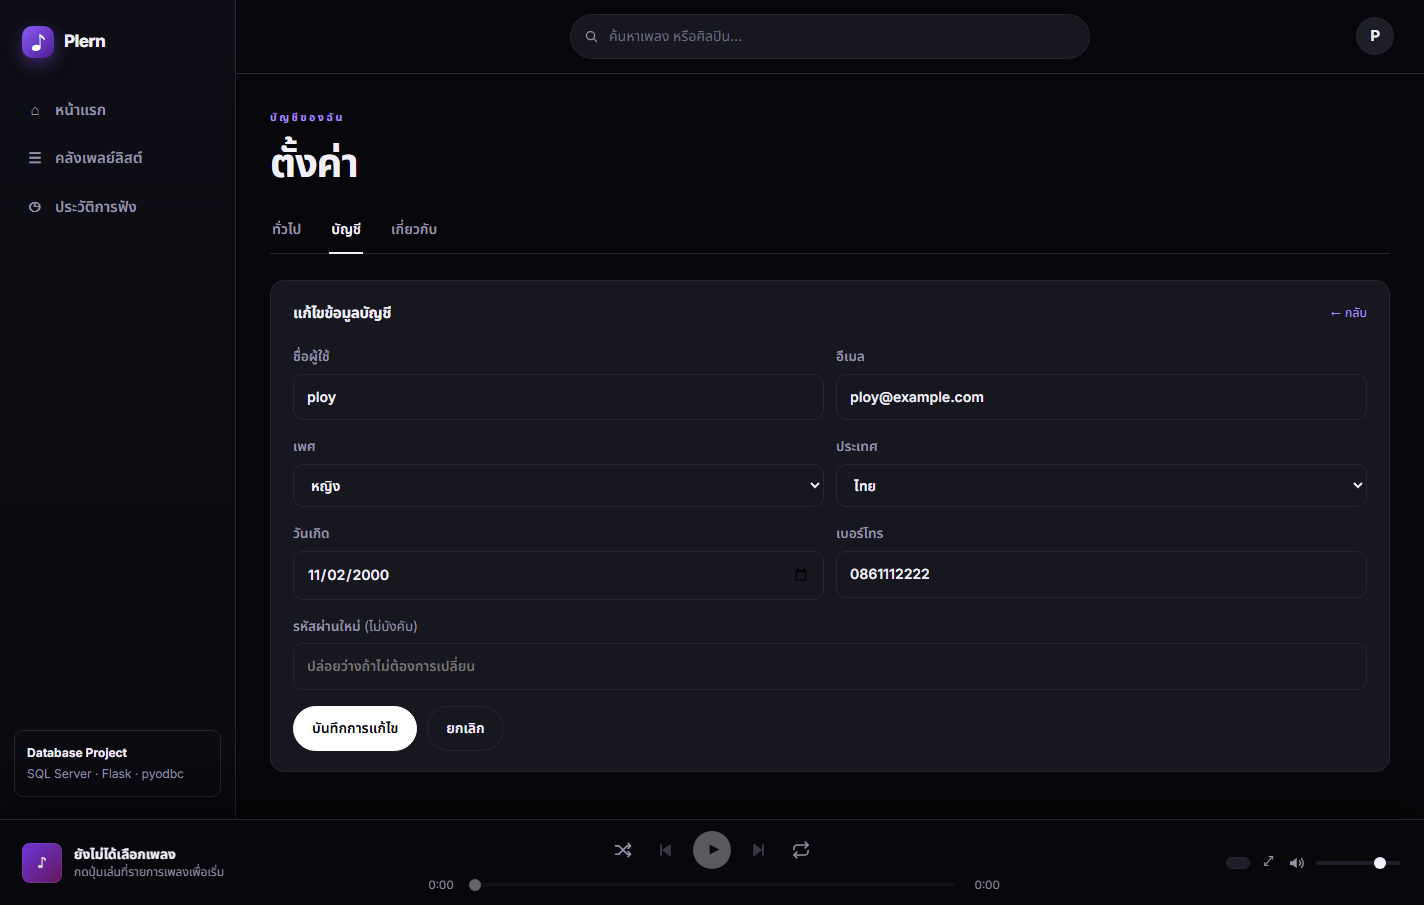
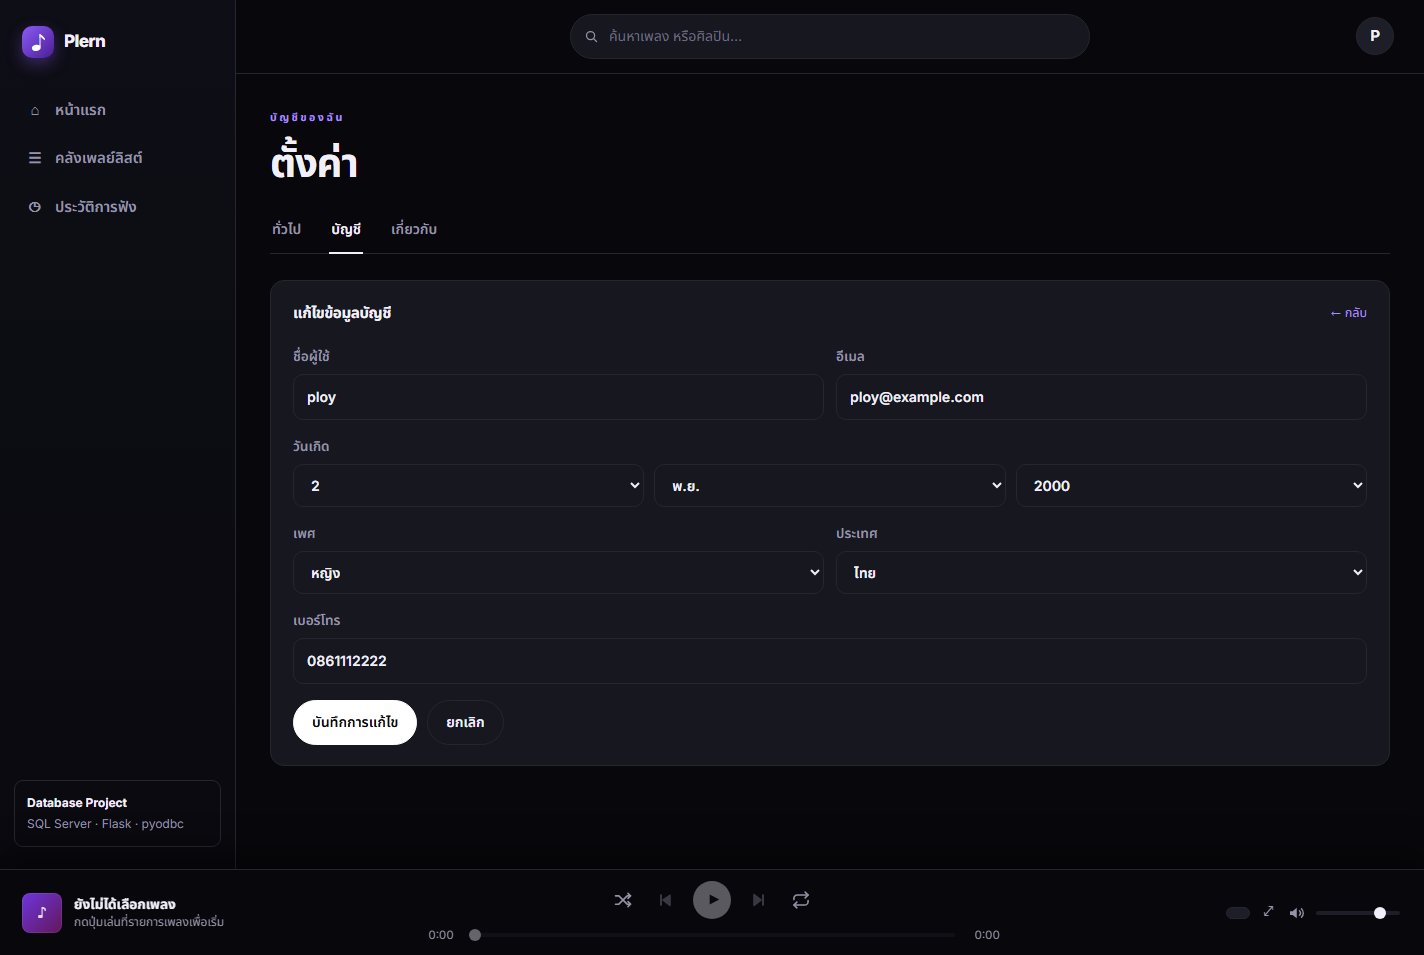
feat(account): split date of birth into day/month/year, move password to its own card

diff --git a/app/templates/settings_edit.html b/app/templates/settings_edit.html
@@ -20,6 +20,30 @@
       </label>
     </div>
 
+    <div class="field">
+      <span>{{ t('field.dob') }}</span>
+      <div class="dob-row">
+        <select name="day" aria-label="{{ t('field.day') }}" required>
+          <option value="" disabled {{ 'selected' if not form.get('day') }}>{{ t('field.day') }}</option>
+          {% for d in days %}
+            <option value="{{ d }}" {{ 'selected' if form.get('day') == d|string }}>{{ d }}</option>
+          {% endfor %}
+        </select>
+        <select name="month" aria-label="{{ t('field.month') }}" required>
+          <option value="" disabled {{ 'selected' if not form.get('month') }}>{{ t('field.month') }}</option>
+          {% for value, label in months %}
+            <option value="{{ value }}" {{ 'selected' if form.get('month') == value|string }}>{{ label }}</option>
+          {% endfor %}
+        </select>
+        <select name="year" aria-label="{{ t('field.year') }}" required>
+          <option value="" disabled {{ 'selected' if not form.get('year') }}>{{ t('field.year') }}</option>
+          {% for y in years %}
+            <option value="{{ y }}" {{ 'selected' if form.get('year') == y|string }}>{{ y }}</option>
+          {% endfor %}
+        </select>
+      </div>
+    </div>
+
     <div class="field-row">
       <label class="field">
         <span>{{ t('field.gender') }}</span>
@@ -39,21 +63,9 @@
       </label>
     </div>
 
-    <div class="field-row">
-      <label class="field">
-        <span>{{ t('field.dob') }}</span>
-        <input type="date" name="date_of_birth" value="{{ form.get('date_of_birth', '') }}">
-      </label>
-      <label class="field">
-        <span>{{ t('field.tel') }}</span>
-        <input type="tel" name="tel" value="{{ form.get('tel', '') }}" maxlength="20">
-      </label>
-    </div>
-
     <label class="field">
-      <span>{{ t('field.new_password') }} <em>{{ t('edit.optional') }}</em></span>
-      <input type="password" name="password" minlength="8" autocomplete="new-password"
-             placeholder="{{ t('edit.password_hint') }}">
+      <span>{{ t('field.tel') }}</span>
+      <input type="tel" name="tel" value="{{ form.get('tel', '') }}" maxlength="20">
     </label>
 
     <div class="row-actions">

diff --git a/app/templates/settings_account.html b/app/templates/settings_account.html
@@ -17,6 +17,33 @@
 </section>
 
 <section class="settings-card">
+  <h2>{{ t('password.title') }}</h2>
+  <form method="post" action="{{ url_for('main.change_password') }}" class="form password-form">
+    <div class="field-row">
+      <label class="field">
+        <span>{{ t('password.current') }}</span>
+        <input type="password" name="current" required autocomplete="current-password">
+      </label>
+      <label class="field">
+        <span>{{ t('password.new') }}</span>
+        <input type="password" name="new" required minlength="8" autocomplete="new-password"
+               placeholder="{{ t('password.hint') }}">
+      </label>
+    </div>
+    <div class="field-row">
+      <label class="field">
+        <span>{{ t('password.confirm') }}</span>
+        <input type="password" name="confirm" required minlength="8" autocomplete="new-password">
+      </label>
+      <div class="field field-submit">
+        <span>&nbsp;</span>
+        <button class="btn btn-light" type="submit">{{ t('password.submit') }}</button>
+      </div>
+    </div>
+  </form>
+</section>
+
+<section class="settings-card">
   <h2>{{ t('settings.session') }}</h2>
   <div class="row-actions">
     <a class="btn btn-ghost" href="{{ url_for('main.history') }}">{{ t('settings.view_history') }}</a>

diff --git a/app/static/css/style.css b/app/static/css/style.css
@@ -1936,3 +1936,12 @@ kbd {
 .edit-form { display: flex; flex-direction: column; gap: 16px; }
 .edit-form .field input,
 .edit-form .field select { width: 100%; }
+
+/* Password card: keep the submit button aligned with the inputs */
+.password-form { margin-top: 4px; }
+.field-submit { justify-content: flex-end; }
+.field-submit .btn { width: 100%; }
+
+@media (max-width: 620px) {
+  .field-submit .btn { width: 100%; }
+}

diff --git a/app/routes.py b/app/routes.py
@@ -693,8 +693,8 @@ def register():
     if request.method == "POST":
         f = request.form
         username = (f.get("username") or "").strip()
-        password = f.get("password") or ""
         email = (f.get("email") or "").strip().lower()
+        password = f.get("password") or ""
         gender = (f.get("gender") or "").strip()
         country = (f.get("country") or "").strip()
         tel = (f.get("tel") or "").strip()
@@ -828,11 +828,18 @@ def account_edit():
                  ("SG", "สิงคโปร์"), ("MY", "มาเลเซีย"), ("ID", "อินโดนีเซีย")]
     genders = [("Male", "ชาย"), ("Female", "หญิง"), ("", "ไม่ระบุ")]
 
+    days = range(1, 32)
+    months = [(1, "ม.ค."), (2, "ก.พ."), (3, "มี.ค."), (4, "เม.ย."), (5, "พ.ค."), (6, "มิ.ย."),
+              (7, "ก.ค."), (8, "ส.ค."), (9, "ก.ย."), (10, "ต.ค."), (11, "พ.ย."), (12, "ธ.ค.")]
+    this_year = dt.date.today().year
+    years = range(this_year - 13, this_year - 90, -1)
+
     def render(form=None, error=None):
         if error:
             flash(error, "error")
         return render_template("settings_edit.html", form=form or {},
                                countries=countries, genders=genders,
+                               days=days, months=months, years=years,
                                **_settings_context("account"))
 
     if request.method == "POST":
@@ -842,8 +849,9 @@ def account_edit():
         gender = (f.get("gender") or "").strip()
         country = (f.get("country") or "").strip()
         tel = (f.get("tel") or "").strip()
-        password = f.get("password") or ""
-        dob_raw = f.get("date_of_birth") or ""
+        dob_day = (f.get("day") or "").strip()
+        dob_month = (f.get("month") or "").strip()
+        dob_year = (f.get("year") or "").strip()
 
         if not re.fullmatch(r"[A-Za-z0-9._-]{3,50}", username):
             return render(f, "ชื่อผู้ใช้ต้องยาว 3–50 ตัว ใช้ได้เฉพาะ a-z 0-9 . _ -")
@@ -855,17 +863,15 @@ def account_edit():
         if db.query_one("SELECT 1 AS x FROM dbo.[User] WHERE Email = ? AND UserID <> ?",
                         (email, user["UserID"])):
             return render(f, "อีเมลนี้ถูกใช้แล้ว")
-        if password and len(password) < 8:
-            return render(f, "รหัสผ่านใหม่ต้องยาวอย่างน้อย 8 ตัวอักษร")
         if tel and not re.fullmatch(r"[0-9+ -]{9,20}", tel):
             return render(f, "เบอร์โทรไม่ถูกต้อง")
 
         dob = None
-        if dob_raw:
+        if dob_day or dob_month or dob_year:
             try:
-                dob = dt.date.fromisoformat(dob_raw)
-            except ValueError:
-                return render(f, "วันเกิดไม่ถูกต้อง")
+                dob = dt.date(int(dob_year), int(dob_month), int(dob_day))
+            except (ValueError, TypeError):
+                return render(f, "กรุณาเลือกวันเกิดให้ครบ")
             if (dt.date.today() - dob).days // 365 < 13:
                 return render(f, "ต้องมีอายุ 13 ปีขึ้นไป")
 
@@ -878,11 +884,7 @@ def account_edit():
             tel or None,
         ]
         sql = ("UPDATE dbo.[User] SET Username = ?, Email = ?, Gender = ?, "
-               "Date_of_Birth = ?, Country = ?, Tel = ?")
-        if password:
-            sql += ", Password = ?"
-            params.append(hash_password(password))
-        sql += " WHERE UserID = ?"
+               "Date_of_Birth = ?, Country = ?, Tel = ? WHERE UserID = ?")
         params.append(user["UserID"])
 
         db.execute(sql, tuple(params))
@@ -893,11 +895,39 @@ def account_edit():
         "username": user["Username"],
         "email": user["Email"],
         "gender": user["Gender"] or "",
-        "date_of_birth": user["Date_of_Birth"].isoformat() if user["Date_of_Birth"] else "",
+        "day": str(user["Date_of_Birth"].day) if user["Date_of_Birth"] else "",
+        "month": str(user["Date_of_Birth"].month) if user["Date_of_Birth"] else "",
+        "year": str(user["Date_of_Birth"].year) if user["Date_of_Birth"] else "",
         "country": user["Country"] or "TH",
         "tel": user["Tel"] or "",
     }
     return render(form)
+
+
+@bp.post("/settings/account/password")
+@login_required
+def change_password():
+    """Change password from its own card on the account tab"""
+    row = db.query_one("SELECT Password FROM dbo.[User] WHERE UserID = ?",
+                       (g.user["UserID"],))
+    current = request.form.get("current") or ""
+    new = request.form.get("new") or ""
+    confirm = request.form.get("confirm") or ""
+
+    if row is None:
+        abort(404)
+    if not verify_password(current, row["Password"]):
+        flash("รหัสผ่านปัจจุบันไม่ถูกต้อง", "error")
+    elif len(new) < 8:
+        flash("รหัสผ่านใหม่ต้องยาวอย่างน้อย 8 ตัวอักษร", "error")
+    elif new != confirm:
+        flash("รหัสผ่านใหม่ทั้งสองช่องไม่ตรงกัน", "error")
+    else:
+        db.execute("UPDATE dbo.[User] SET Password = ? WHERE UserID = ?",
+                   (hash_password(new), g.user["UserID"]))
+        flash("เปลี่ยนรหัสผ่านแล้ว", "success")
+
+    return redirect(url_for("main.settings_tab", tab="account"))
 
 
 @bp.post("/settings/language")

diff --git a/app/i18n.py b/app/i18n.py
@@ -38,6 +38,16 @@ STRINGS: dict[str, dict[str, str]] = {
         "settings.version": "เวอร์ชัน",
         "settings.about_note": "โปรเจกต์วิชา Database — ข้อมูลเพลงและภาพใช้เพื่อการสาธิตเท่านั้น",
         "settings.manage": "จัดการ",
+        "field.day": "วัน",
+        "field.month": "เดือน",
+        "field.year": "ปี ค.ศ.",
+        "password.title": "รหัสผ่าน",
+        "password.current": "รหัสผ่านปัจจุบัน",
+        "password.new": "รหัสผ่านใหม่",
+        "password.confirm": "ยืนยันรหัสผ่านใหม่",
+        "password.submit": "เปลี่ยนรหัสผ่าน",
+        "password.hint": "อย่างน้อย 8 ตัวอักษร",
+
         "edit.title": "แก้ไขข้อมูลบัญชี",
         "edit.back": "← กลับ",
         "edit.save": "บันทึกการแก้ไข",
@@ -99,6 +109,16 @@ STRINGS: dict[str, dict[str, str]] = {
         "settings.version": "Version",
         "settings.about_note": "Database course project - music and artwork are for demo use only",
         "settings.manage": "Manage",
+        "field.day": "Day",
+        "field.month": "Month",
+        "field.year": "Year",
+        "password.title": "Password",
+        "password.current": "Current password",
+        "password.new": "New password",
+        "password.confirm": "Confirm new password",
+        "password.submit": "Change password",
+        "password.hint": "At least 8 characters",
+
         "edit.title": "Edit account",
         "edit.back": "← Back",
         "edit.save": "Save changes",
